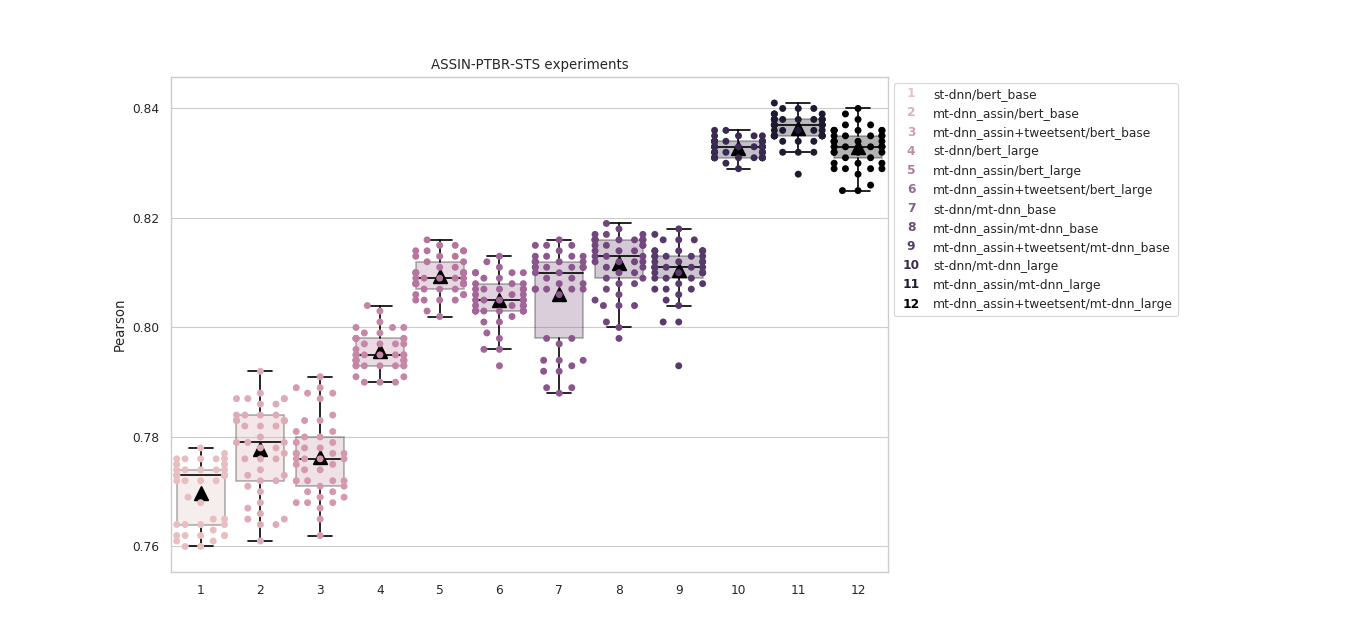
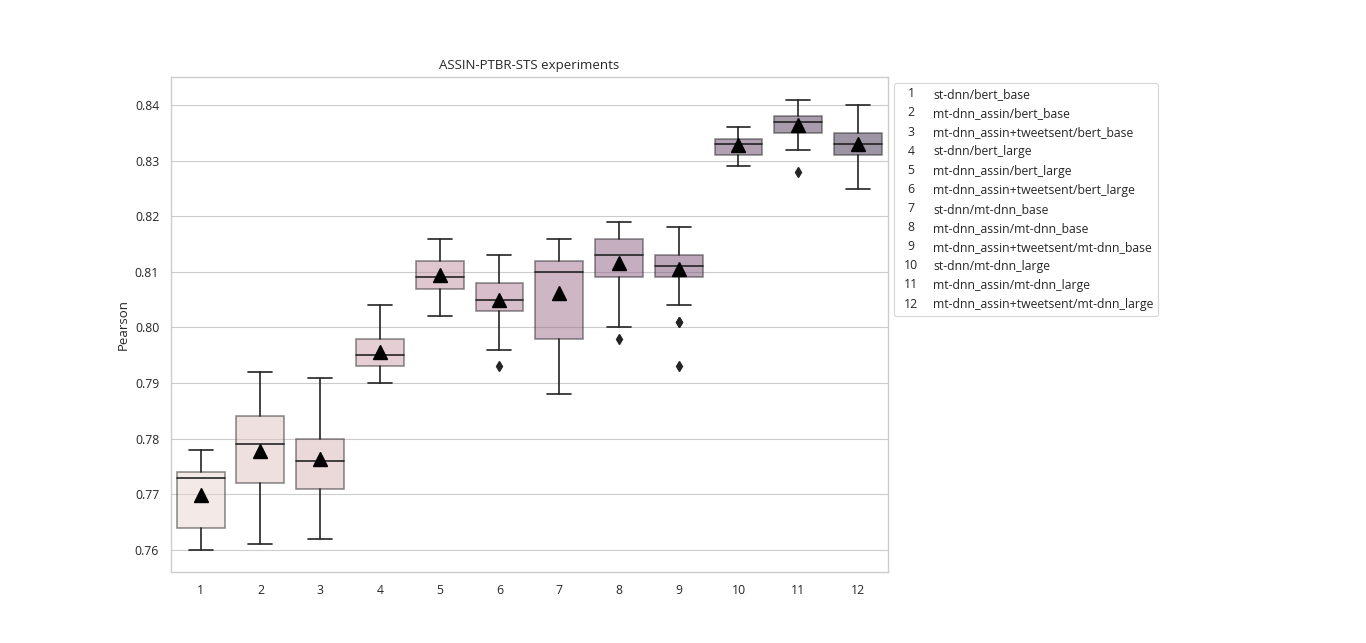
remove swarmplot

diff --git a/boxplot.py b/boxplot.py
@@ -115,8 +115,8 @@ def adjust_legend(graph, labels, handle_text):
                          fontsize=fontsize,
                          ha="center",
                          va="center",
-                         color=tup[1],
-                         fontweight="bold",
+                         #color=tup[1],
+                         #fontweight="bold",
                          alpha=1,
                    )
                 return [tx]
@@ -143,13 +143,12 @@ def box_plot(df):
 
     handle_text = range(1, df.shape[1]+1)
     labels = df.columns.values
-    color_palette=sns.cubehelix_palette(len(labels), gamma=0.8,light=0.75, dark=0)
+    color_palette=sns.cubehelix_palette(len(labels), dark=0.2)
 
     graph = sns.boxplot(data=df,
-                        sym="",
                         palette=color_palette,
-                        boxprops=dict(alpha=.3),
                         showmeans=True,
+                        boxprops=dict(alpha=0.5),
                         meanprops=dict(
                                        alpha=1,
                                        markerfacecolor='black',
@@ -157,8 +156,6 @@ def box_plot(df):
                                        markersize=10,
                                       ),
     )
-    graph = sns.swarmplot(data=df, palette=color_palette)
-
     adjust_legend(graph, labels, handle_text)
 
     return fig, graph
@@ -169,7 +166,7 @@ def draw_blox_plot(scores_dict_lst: List[dict], task_name: str, metric_idx: int,
     ylabel = get_metric_name(metric_idx, is_assin(task_name))
 
     df = pd.DataFrame(scores_dict_lst)
-    print(df.columns)
+    print(df.shape)
 
     fig, graph = box_plot(df)
     graph.set_title(graph_title)
